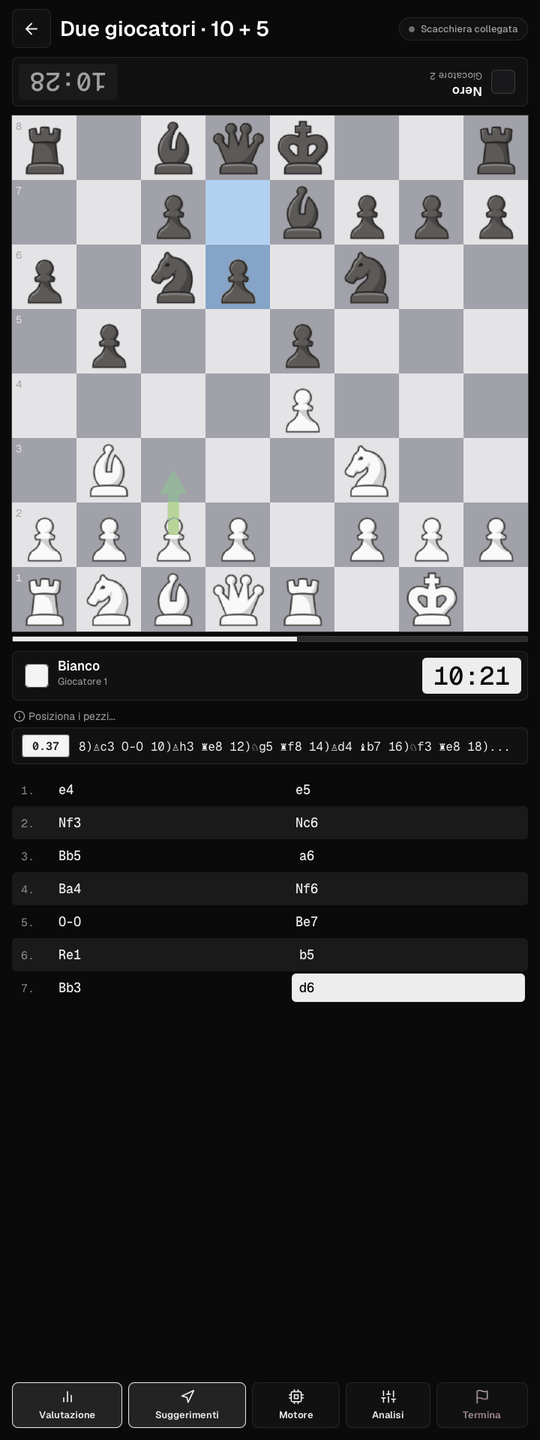
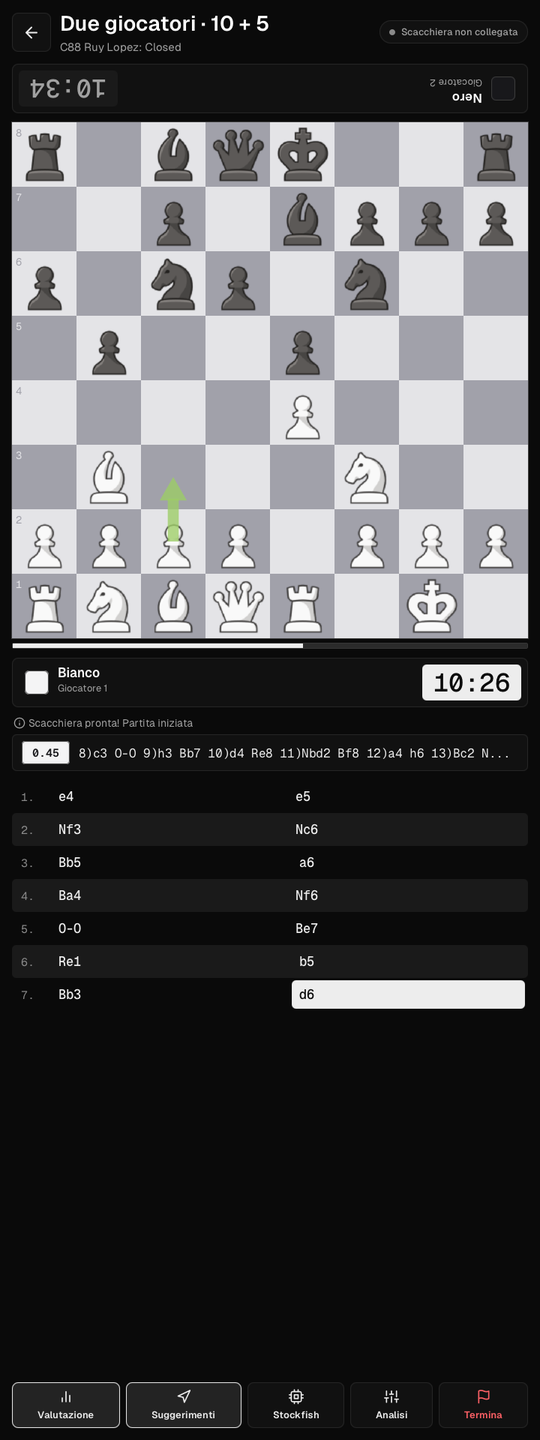
Refresh README screenshots after the merge; sentence-case status messages; touch targets
- Screenshots without palette quantisation (accurate colours), 540x1440 portrait and 1440x540 landscape
- Status messages from the game logic shown in sentence case (with tests)
- Chips and switches reach 48 px; move list highlights via a property instead of refresh()

diff --git a/src/main/resources/Styles/Style.css b/src/main/resources/Styles/Style.css
@@ -555,7 +555,7 @@
     -fx-border-width: 1;
     -fx-background-insets: 0;
     -fx-padding: 0 16;
-    -fx-min-height: 44px;
+    -fx-min-height: 48px;
     -fx-font-size: 15px;
     -fx-font-family: "Geist Medium";
     -fx-text-fill: -color-fg;
@@ -689,7 +689,7 @@
 .switch {
     -fx-background-color: transparent;
     -fx-background-insets: 0;
-    -fx-padding: 4;
+    -fx-padding: 8;
     -fx-cursor: hand;
     -fx-border-color: transparent;
     -fx-border-radius: 999;

diff --git a/src/main/java/org/example/javachess/Components/MoveListView.java b/src/main/java/org/example/javachess/Components/MoveListView.java
@@ -32,7 +32,8 @@ public class MoveListView extends ListView<MoveListView.Row> {
     }
 
     private final ObservableList<Row> rows = FXCollections.observableArrayList();
-    private int currentPly;
+    /** Cells listen to this instead of a full refresh() on every move (cheaper with software rendering). */
+    private final javafx.beans.property.IntegerProperty currentPly = new javafx.beans.property.SimpleIntegerProperty();
     private boolean blackStarts;
     private IntConsumer onPlySelected;
 
@@ -52,7 +53,7 @@ public class MoveListView extends ListView<MoveListView.Row> {
 
     public void clear() {
         rows.clear();
-        currentPly = 0;
+        currentPly.set(0);
     }
 
     /** Recomputes SAN for the given moves played from {@code startFen}; keeps unchanged rows. */
@@ -99,8 +100,7 @@ public class MoveListView extends ListView<MoveListView.Row> {
 
     /** Highlights the move that leads to the position after {@code ply} half-moves (0 = start position). */
     public void setCurrentPly(int ply) {
-        this.currentPly = ply;
-        refresh();
+        this.currentPly.set(ply);
         if (!rows.isEmpty()) {
             int rowIndex = Math.max(0, Math.min(rows.size() - 1, rowOfPly(ply)));
             scrollTo(Math.max(0, rowIndex - 3));
@@ -130,6 +130,20 @@ public class MoveListView extends ListView<MoveListView.Row> {
             black.setMaxWidth(Double.MAX_VALUE);
             white.setOnMouseClicked(e -> select(true));
             black.setOnMouseClicked(e -> select(false));
+            currentPly.addListener((obs, o, n) -> updateCurrent());
+        }
+
+        private void updateCurrent() {
+            Row row = getItem();
+            if (row == null || isEmpty()) {
+                white.pseudoClassStateChanged(CURRENT, false);
+                black.pseudoClassStateChanged(CURRENT, false);
+                return;
+            }
+            int whitePly = (blackStarts && getIndex() == 0) ? -1 : row.whitePly();
+            int blackPly = (blackStarts && getIndex() == 0) ? 1 : row.whitePly() + 1;
+            white.pseudoClassStateChanged(CURRENT, whitePly > 0 && whitePly == currentPly.get());
+            black.pseudoClassStateChanged(CURRENT, !row.black().isEmpty() && blackPly == currentPly.get());
         }
 
         private void select(boolean whiteMove) {
@@ -151,15 +165,13 @@ public class MoveListView extends ListView<MoveListView.Row> {
             super.updateItem(row, empty);
             if (empty || row == null) {
                 setGraphic(null);
+                updateCurrent();
                 return;
             }
             number.setText(row.number() + ".");
             white.setText(row.white());
             black.setText(row.black());
-            int whitePly = (blackStarts && getIndex() == 0) ? -1 : row.whitePly();
-            int blackPly = (blackStarts && getIndex() == 0) ? 1 : row.whitePly() + 1;
-            white.pseudoClassStateChanged(CURRENT, whitePly > 0 && whitePly == currentPly);
-            black.pseudoClassStateChanged(CURRENT, !row.black().isEmpty() && blackPly == currentPly);
+            updateCurrent();
             setGraphic(box);
         }
     }

diff --git a/src/main/java/org/example/javachess/Oggetti/AnalysisPanel.java b/src/main/java/org/example/javachess/Oggetti/AnalysisPanel.java
@@ -95,13 +95,32 @@ public class AnalysisPanel extends VBox {
         statusLabel.setVisible(!currentStatusMessage.isEmpty());
     }
 
-    /** Game messages sometimes arrive in capitals ("SCACCHIERA PRONTA!"): show them in sentence case. */
-    private static String prettify(String s) {
-        if (s.length() > 3 && s.equals(s.toUpperCase()) && s.chars().anyMatch(Character::isLetter)) {
-            String lower = s.toLowerCase();
-            return Character.toUpperCase(lower.charAt(0)) + lower.substring(1);
+    /**
+     * Game messages often arrive (partly) in capitals ("SCACCHIERA PRONTA! Partita Iniziata"): show them in
+     * sentence case, capitalising after . ! ? as well. Square names (e2, F8) are kept upper-case.
+     */
+    static String prettify(String s) {
+        long letters = s.chars().filter(Character::isLetter).count();
+        long upper = s.chars().filter(Character::isUpperCase).count();
+        if (letters < 4 || upper < letters * 0.5) {
+            return s;
         }
-        return s;
+        StringBuilder out = new StringBuilder(s.length());
+        boolean capitalizeNext = true;
+        for (String word : s.toLowerCase().split("(?<=\\s)")) {
+            String w = word;
+            if (w.trim().matches("[a-h][1-8][,.!?:]?")) {
+                w = w.toUpperCase();
+            } else if (capitalizeNext && !w.isBlank()) {
+                w = Character.toUpperCase(w.charAt(0)) + w.substring(1);
+            }
+            out.append(w);
+            String t = w.trim();
+            if (!t.isEmpty()) {
+                capitalizeNext = t.endsWith(".") || t.endsWith("!") || t.endsWith("?");
+            }
+        }
+        return out.toString();
     }
 
     private void updateVisibility() {

diff --git a/src/test/java/org/example/javachess/Oggetti/AnalysisPanelTextTest.java b/src/test/java/org/example/javachess/Oggetti/AnalysisPanelTextTest.java
@@ -1,0 +1,20 @@
+package org.example.javachess.Oggetti;
+
+import org.junit.jupiter.api.Test;
+
+import static org.junit.jupiter.api.Assertions.assertEquals;
+
+class AnalysisPanelTextTest {
+
+    @Test
+    void capitalMessagesBecomeSentenceCase() {
+        assertEquals("Scacchiera pronta! Partita iniziata", AnalysisPanel.prettify("SCACCHIERA PRONTA! Partita Iniziata"));
+        assertEquals("Errore: controlla E4", AnalysisPanel.prettify("ERRORE: Controlla E4"));
+    }
+
+    @Test
+    void normalMessagesAreKept() {
+        assertEquals("Posiziona i pezzi...", AnalysisPanel.prettify("Posiziona i pezzi..."));
+        assertEquals("Muovi l'avversario: solleva da F8", AnalysisPanel.prettify("Muovi l'avversario: solleva da F8"));
+    }
+}
